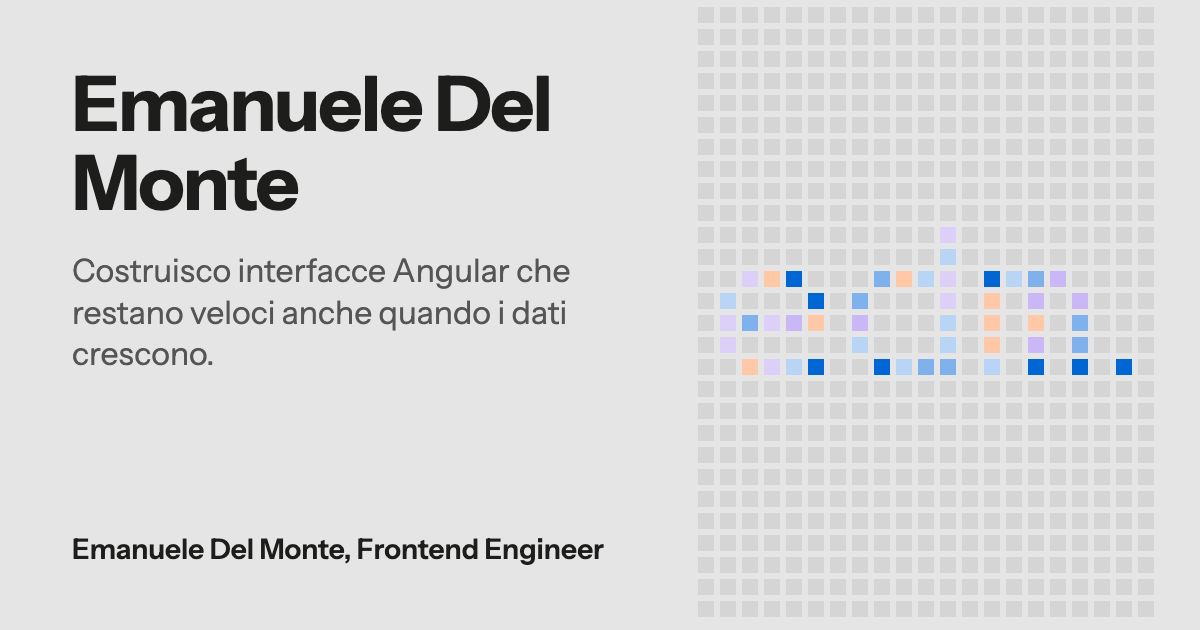
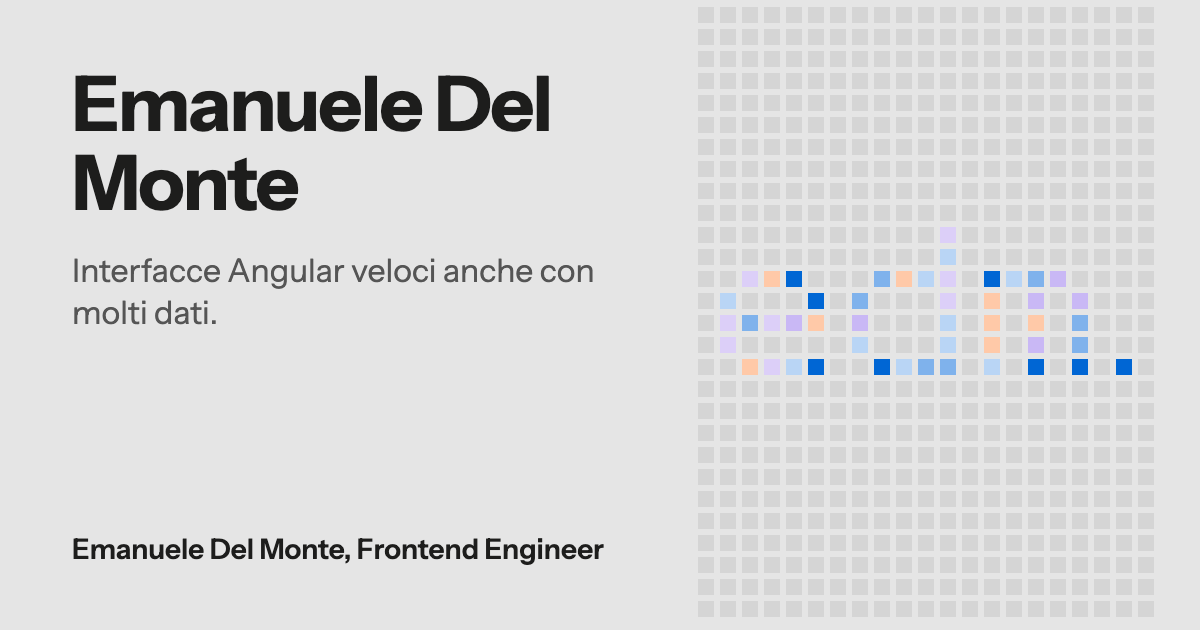
content: shorten the Italian headline and keep availability to remote roles
Claude-Session: https://claude.ai/code/session_014t4Wg7xppYvDZKWdUJ4WtA

Changed region(s): [[0.0617, 0.3921, 0.4933, 0.4524], [0.0617, 0.4825, 0.4625, 0.5127], [0.0617, 0.5429, 0.185, 0.6032]]

diff --git a/src/app/content/content.it.ts b/src/app/content/content.it.ts
@@ -11,10 +11,10 @@ export const CONTENT_IT: SiteContent = {
   person: {
     ...CONTENT_EN.person,
     location: 'Latina, Italia',
-    availability: 'Disponibile per ruoli da remoto e in sede da marzo 2027.',
+    availability: 'Disponibile per ruoli da remoto.',
   },
   hero: {
-    headline: 'Costruisco interfacce Angular che restano veloci anche quando i dati crescono.',
+    headline: 'Interfacce Angular veloci anche con molti dati.',
     lede: 'Frontend Engineer in IPS S.p.A., a Latina. Laureato in Ingegneria Informatica nel 2026.',
   },
   about:
@@ -25,7 +25,7 @@ export const CONTENT_IT: SiteContent = {
     { label: 'Esperienza', value: 'Circa 3 anni nello sviluppo frontend' },
     { label: 'Stack principale', value: 'Angular, Signals, RxJS, TypeScript, PrimeNG' },
     { label: 'Formazione', value: 'Laurea in Ingegneria Informatica, Università Mercatorum, 2026' },
-    { label: 'Disponibilità', value: 'Ruoli da remoto e in sede da marzo 2027' },
+    { label: 'Disponibilità', value: 'Ruoli da remoto' },
   ],
   projects: [
     {

diff --git a/src/app/content/content.en.ts b/src/app/content/content.en.ts
@@ -6,7 +6,7 @@ export const CONTENT_EN: SiteContent = {
     role: 'Frontend Engineer',
     employer: 'IPS S.p.A.',
     location: 'Latina, Italy',
-    availability: 'Open to remote and on-site roles from March 2027.',
+    availability: 'Open to remote roles.',
     email: 'info@emanueledelmonte.it',
     linkedin: 'https://www.linkedin.com/in/emanueledelmonte/',
     github: 'https://github.com/xdelmo',
@@ -24,7 +24,7 @@ export const CONTENT_EN: SiteContent = {
     { label: 'Experience', value: 'About 3 years building web front ends' },
     { label: 'Main stack', value: 'Angular, Signals, RxJS, TypeScript, PrimeNG' },
     { label: 'Education', value: 'BSc in Computer Engineering, Università Mercatorum, 2026' },
-    { label: 'Availability', value: 'Remote and on-site roles from March 2027' },
+    { label: 'Availability', value: 'Remote roles' },
   ],
   projects: [
     {

diff --git a/docs/superpowers/specs/2026-10-03-portfolio-v2-design.md b/docs/superpowers/specs/2026-10-03-portfolio-v2-design.md
@@ -297,4 +297,5 @@ Tracciato anche nelle issue GitHub con etichetta `v2`:
 | 2026-10-04 | Cambio tema con un cerchio che si allarga dal pulsante su tutta la viewport (View Transitions; niente con riduzione del movimento) e icona animata all'hover | richiesta esplicita |
 | 2026-10-04 | Selettore lingua come menu a tendina (`<details>`, funziona senza JS; Esc e clic fuori lo chiudono) | il link "Italiano"/"English" da solo non diceva cosa faceva |
 | 2026-10-04 | Tolto il lampo pixelato sulle immagini dei progetti all'hover (e le copie `-40.jpg`) | richiesta esplicita |
+| 2026-10-04 | Titolo dell'hero in italiano accorciato ("Interfacce Angular veloci anche con molti dati."); disponibilità ridotta a "ruoli da remoto" (tolti "in sede" e "da marzo 2027") | richiesta esplicita |
 | 2026-10-04 | Dev server con `baseHref` per lingua e proxy tra 4200 e 4201 | il cambio lingua non funzionava in sviluppo |

diff --git a/docs/launch/launch-kit.md b/docs/launch/launch-kit.md
@@ -41,7 +41,7 @@ Un iPhone e un Android:
 - [ ] **Bing Webmaster Tools**: importa il sito da Search Console e invia la stessa sitemap.
 - [ ] **LinkedIn**, stessi dati del sito (nome, ruolo, città, link):
   - Titolo: `Frontend Engineer · Angular, Signals, RxJS · IPS S.p.A. · Latina`
-  - Prima riga di "Informazioni": `Frontend Engineer a Latina: costruisco interfacce Angular che restano veloci anche quando i dati crescono. Progetti e case study su www.emanueledelmonte.it`
+  - Prima riga di "Informazioni": `Frontend Engineer a Latina: interfacce Angular veloci anche con molti dati. Progetti e case study su www.emanueledelmonte.it`
   - Sezione "In primo piano" e campo "Sito web": `https://www.emanueledelmonte.it`
 - [ ] **README del profilo GitHub** (repo `xdelmo/xdelmo`), bozza:
 
